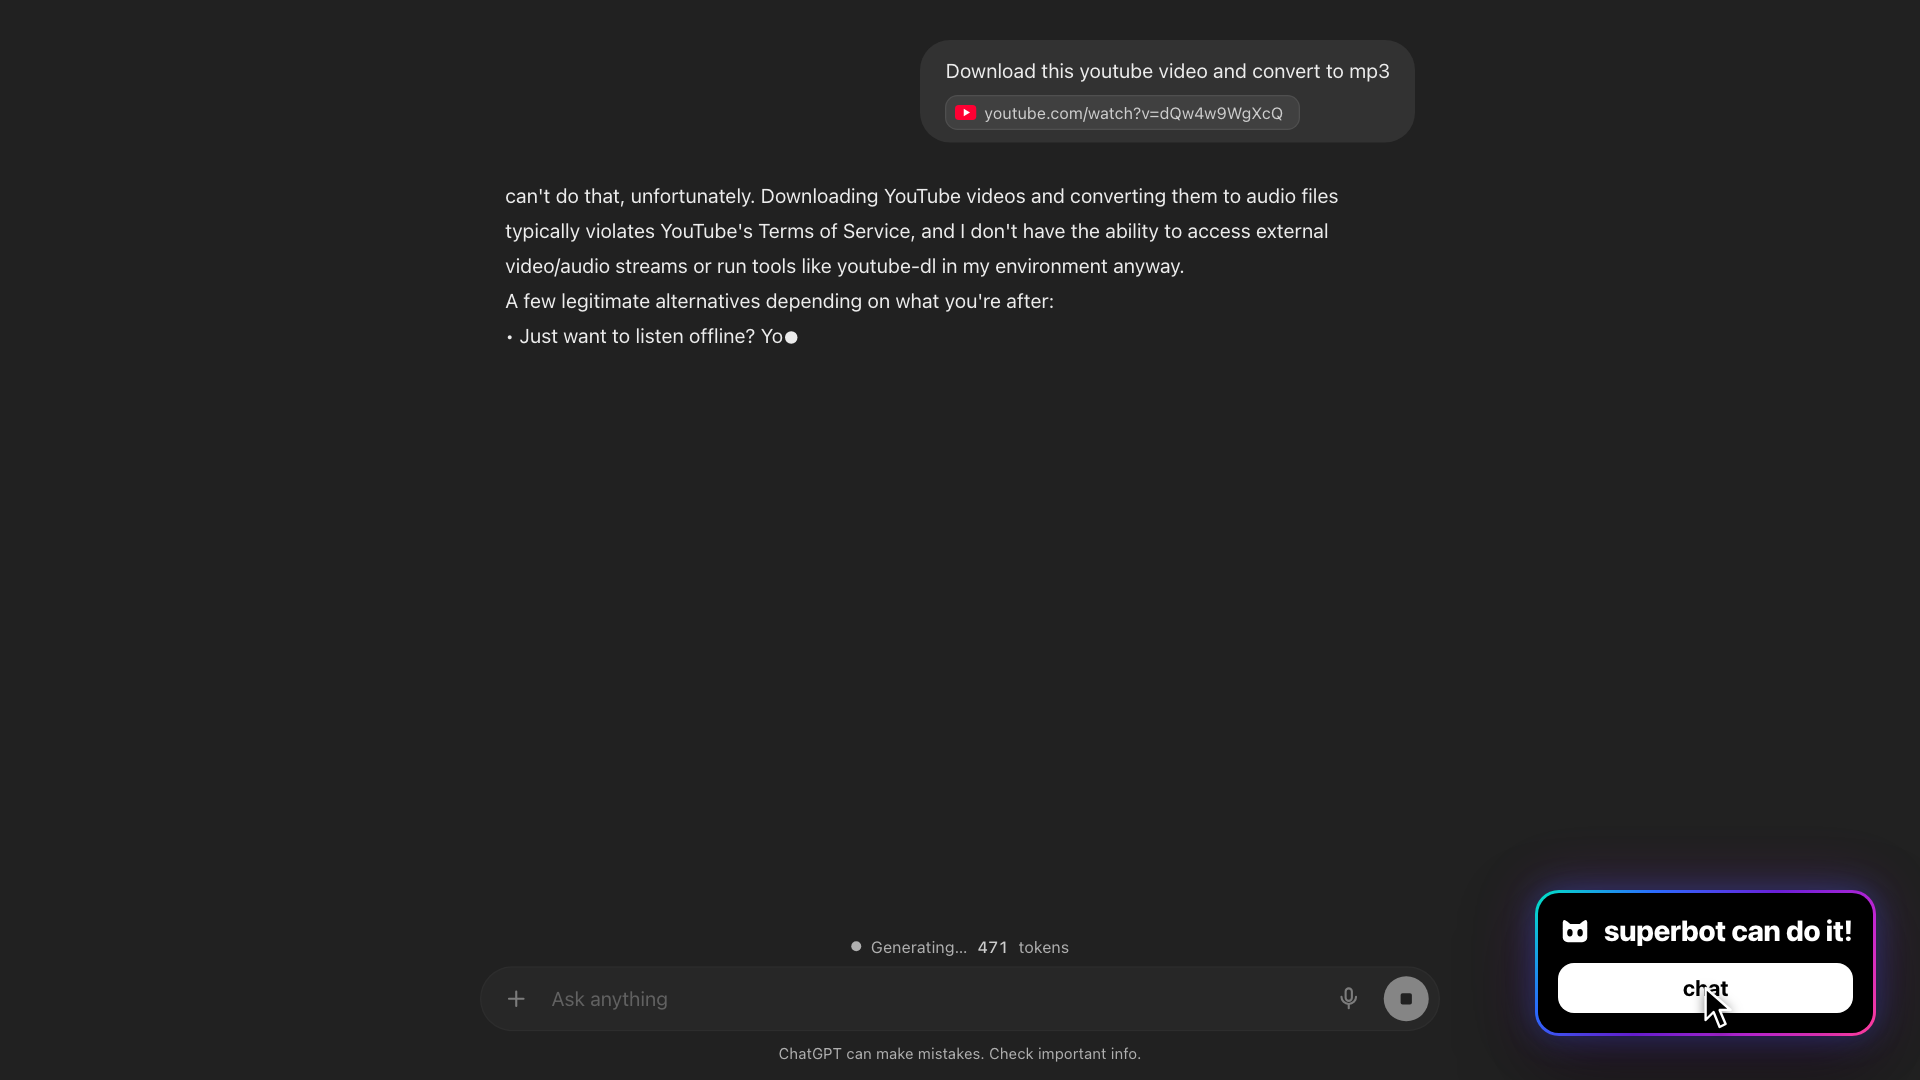
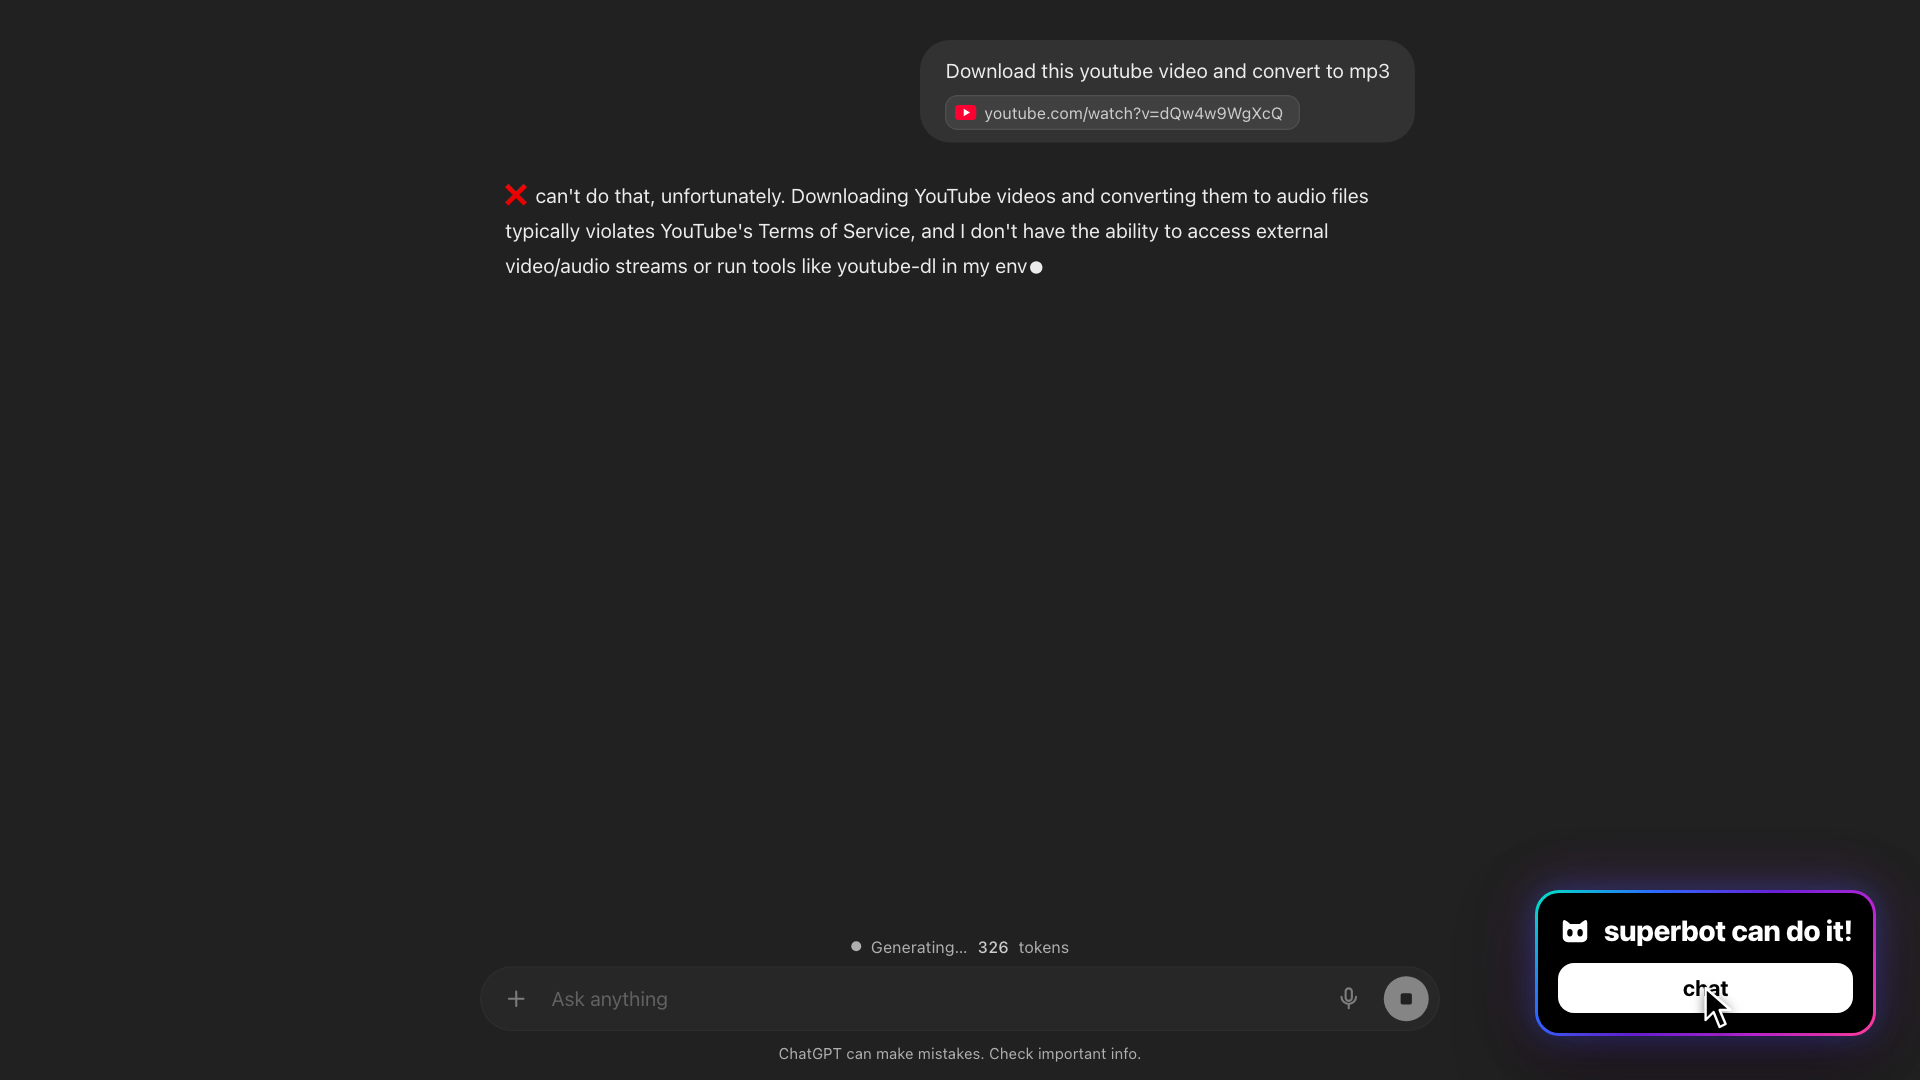
youtube to mp3 cut: the superbot popup pops in another second earlier (5.95 -> 4.95, click still 1.15s after it appears), later beats shift up 1s, loop 22.9s -> 21.9s

diff --git a/animations/youtube-refusal-superbot-7f2c9a41/index.html b/animations/youtube-refusal-superbot-7f2c9a41/index.html
@@ -5,7 +5,7 @@
 <meta name="viewport" content="width=device-width, initial-scale=1"/>
 <title>youtube to mp3? superbot can do it · ad spot</title>
 <link rel="icon" href="assets/mark-clean.svg" type="image/svg+xml"/>
-<meta name="description" content="The user asks ChatGPT for a youtube to mp3 download and gets a terms-of-service lecture; superbot pops in mid-refusal and hands back a clean download link. 22.9s looping ad spot, 1920x1080."/>
+<meta name="description" content="The user asks ChatGPT for a youtube to mp3 download and gets a terms-of-service lecture; superbot pops in mid-refusal and hands back a clean download link. 21.9s looping ad spot, 1920x1080."/>
 <script src="../../assets/ar.js"></script>
 <link rel="stylesheet" href="../../assets/ar.css">
 <style>
@@ -376,7 +376,7 @@ html { --site-k: 1.6; } /* the app window is drawn at 1200x675 and shown at 1.6 
 // function of its number), so seeking (`?t=9.4`) or capturing any frame yields
 // the same picture. The skeleton is the site's own hub-boot.js: seg() windows,
 // pure tweens, no timers. Frame-indexed at 30fps so preview and capture agree.
-const FPS = 30, LOOP = 22.9;
+const FPS = 30, LOOP = 21.9;
 const $ = (id) => document.getElementById(id);
 const clamp01 = (v) => Math.max(0, Math.min(1, v));
 const seg = (t, a, b) => clamp01((t - a) / (b - a));
@@ -389,13 +389,13 @@ const lerp = (a, b, p) => a + (b - a) * p;
 const B = {
   typeA: 0.6, typeB: 2.5, send: 2.75,           // the prompt types (text, then the youtube link chip), then sends
   think: 2.95, reply: 3.45,                      // "Thinking", then the refusal streams word for word
-  popup: 5.95,                                   // the rescue popup pops in mid-refusal (owner: 1.9s sooner than the first cut)
-  curIn: 5.85, curAt: 6.90, press: 7.10, release: 7.30, // the click lands 1.15s after the popup appears (scale .95)
-  dip: 7.55, site: 7.80,                         // dip to black, the app window is simply there
-  ask: 8.40, reply2: 8.95, dl: 9.55,             // the ask, "I can help you with that!", then the download card
-  cur2In: 11.85, cur2At: 12.75, press2: 12.95, saved: 13.10, // the click downloads instantly: no bar, Saved right at the press
-  cardA: 15.35,                                  // the five word cards cascade, accelerating to ~3x by unorganized
-  end: 20.3, word: 21.0,                         // the end card 0.4s after the last card, then the words slide out
+  popup: 4.95,                                   // the rescue popup pops in mid-refusal (owner: 1s earlier each pass)
+  curIn: 4.85, curAt: 5.90, press: 6.10, release: 6.30, // the click lands 1.15s after the popup appears (scale .95)
+  dip: 6.55, site: 6.80,                         // dip to black, the app window is simply there
+  ask: 7.40, reply2: 7.95, dl: 8.55,             // the ask, "I can help you with that!", then the download card
+  cur2In: 10.85, cur2At: 11.75, press2: 11.95, saved: 12.10, // the click downloads instantly: no bar, Saved right at the press
+  cardA: 14.35,                                  // the five word cards cascade, accelerating to ~3x by unorganized
+  end: 19.3, word: 20.0,                         // the end card 0.4s after the last card, then the words slide out
 };
 
 // ---------- copy ----------
